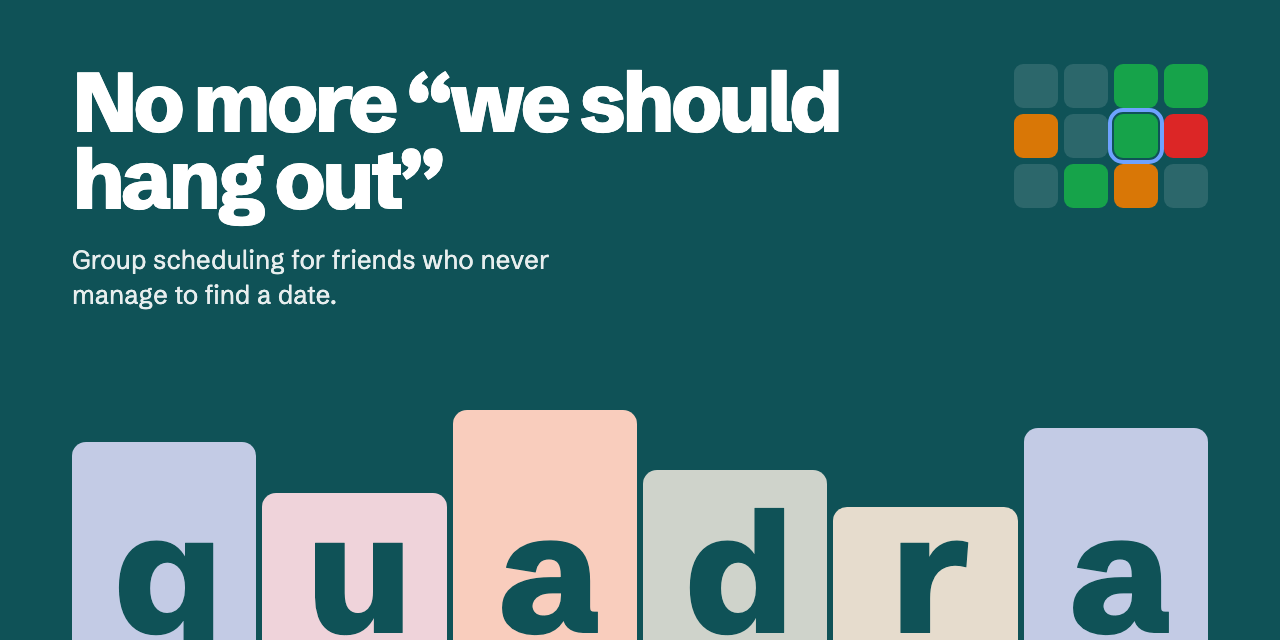
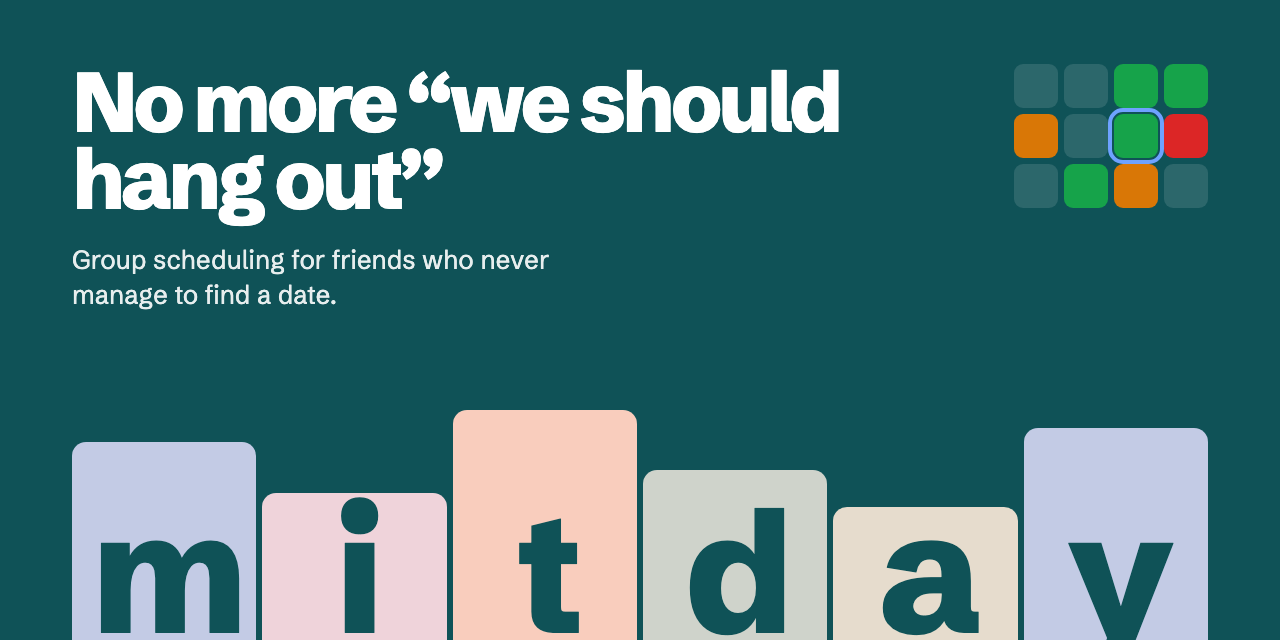
rename to Mitday

diff --git a/src/lib/email.ts b/src/lib/email.ts
@@ -18,17 +18,18 @@ export type OutgoingEmail = {
 
 /** Emails captured in dev/test when no Resend key is configured. */
 const globalOutbox = globalThis as unknown as {
-  __quadraOutbox?: { to: string; subject: string; text: string }[];
+  __mitdayOutbox?: { to: string; subject: string; text: string }[];
 };
 
 export function devOutbox() {
-  globalOutbox.__quadraOutbox ??= [];
-  return globalOutbox.__quadraOutbox;
+  globalOutbox.__mitdayOutbox ??= [];
+  return globalOutbox.__mitdayOutbox;
 }
 
 export async function sendEmail(email: OutgoingEmail): Promise<void> {
-  const key = process.env.AUTH_RESEND_KEY;
-  const from = process.env.EMAIL_FROM ?? "Quadra <no-reply@example.com>";
+  // AUTH_RESEND_KEY, or RESEND_API_KEY as set by the Vercel Marketplace Resend integration.
+  const key = process.env.AUTH_RESEND_KEY ?? process.env.RESEND_API_KEY;
+  const from = process.env.EMAIL_FROM ?? "Mitday <no-reply@example.com>";
   if (!key) {
     const text = await render(email.react, { plainText: true });
     devOutbox().push({ to: email.to, subject: email.subject, text });

diff --git a/src/components/landing/block-mark.tsx b/src/components/landing/block-mark.tsx
@@ -1,19 +1,19 @@
 import { cn } from "@/lib/utils";
 
 const BLOCKS = [
-  { letter: "q", h: "86%", bg: "bg-field-blue" },
-  { letter: "u", h: "64%", bg: "bg-field-pink" },
-  { letter: "a", h: "100%", bg: "bg-field-peach" },
+  { letter: "m", h: "86%", bg: "bg-field-blue" },
+  { letter: "i", h: "64%", bg: "bg-field-pink" },
+  { letter: "t", h: "100%", bg: "bg-field-peach" },
   { letter: "d", h: "74%", bg: "bg-field-sage" },
-  { letter: "r", h: "58%", bg: "bg-field-sand" },
-  { letter: "a", h: "92%", bg: "bg-field-blue" },
+  { letter: "a", h: "58%", bg: "bg-field-sand" },
+  { letter: "y", h: "92%", bg: "bg-field-blue" },
 ];
 
 /** The name built from calendar cells of different heights. */
 export function BlockMark({ className }: { className?: string }) {
   return (
     <div className={cn("h-[22svh] lg:h-[34svh]", className)}>
-      <span className="sr-only">Quadra</span>
+      <span className="sr-only">Mitday</span>
       <div aria-hidden="true" className="flex h-full items-end gap-1">
         {BLOCKS.map((b, i) => (
           <span

diff --git a/src/lib/rate-limit.ts b/src/lib/rate-limit.ts
@@ -14,24 +14,24 @@ const limits: Record<
 };
 
 const g = globalThis as unknown as {
-  __quadraLimiters?: Map<Bucket, Ratelimit>;
+  __mitdayLimiters?: Map<Bucket, Ratelimit>;
 };
 
 function limiter(bucket: Bucket): Ratelimit | null {
   const url = process.env.UPSTASH_REDIS_REST_URL;
   const token = process.env.UPSTASH_REDIS_REST_TOKEN;
   if (!url || !token) return null;
-  g.__quadraLimiters ??= new Map();
-  let rl = g.__quadraLimiters.get(bucket);
+  g.__mitdayLimiters ??= new Map();
+  let rl = g.__mitdayLimiters.get(bucket);
   if (!rl) {
     const { tokens, window } = limits[bucket];
     rl = new Ratelimit({
       redis: new Redis({ url, token }),
       limiter: Ratelimit.slidingWindow(tokens, window),
-      prefix: `quadra:rl:${bucket}`,
+      prefix: `mitday:rl:${bucket}`,
       analytics: false,
     });
-    g.__quadraLimiters.set(bucket, rl);
+    g.__mitdayLimiters.set(bucket, rl);
   }
   return rl;
 }

diff --git a/src/app/[locale]/p/[slug]/opengraph-image.tsx b/src/app/[locale]/p/[slug]/opengraph-image.tsx
@@ -3,7 +3,7 @@ import { getPlanBySlug } from "@/server/plans";
 
 export const size = { width: 1200, height: 630 };
 export const contentType = "image/png";
-export const alt = "Quadra";
+export const alt = "Mitday";
 
 /** Preview card for WhatsApp & co: the plan's title on the 2×2 mark. */
 export default async function OgImage({
@@ -13,7 +13,7 @@ export default async function OgImage({
 }) {
   const { slug } = await params;
   const b = await getPlanBySlug(slug).catch(() => null);
-  const title = b?.plan.title ?? "Quadra";
+  const title = b?.plan.title ?? "Mitday";
   const cells = [
     true,
     false,
@@ -70,7 +70,7 @@ export default async function OgImage({
               borderRadius: 6,
             }}
           />
-          Quadra
+          Mitday
         </div>
         <div
           style={{

diff --git a/e2e/helpers.ts b/e2e/helpers.ts
@@ -3,10 +3,10 @@ import { expect, type Page } from "@playwright/test";
 export const uid = () => Math.random().toString(36).slice(2, 8);
 
 export async function testLogin(page: Page, name: string, locale = "es") {
-  const email = `${name.toLowerCase()}-${uid()}@test.quadra`;
+  const email = `${name.toLowerCase()}-${uid()}@test.mitday`;
   await page.goto(`/${locale}/login`);
   const form = page.getByTestId("test-login");
-  await form.getByPlaceholder("ana@test.quadra").fill(email);
+  await form.getByPlaceholder("ana@test.mitday").fill(email);
   await form.getByLabel("Name").fill(name);
   await form.getByRole("button", { name: "Test login" }).click();
   await expect(page).toHaveURL(new RegExp(`/${locale}/dashboard`));

diff --git a/src/components/app/site-header.tsx b/src/components/app/site-header.tsx
@@ -2,7 +2,7 @@ import { getTranslations } from "next-intl/server";
 import { Suspense } from "react";
 import { Link } from "@/i18n/navigation";
 import { currentUser } from "@/server/session";
-import { QuadraMark } from "./logo";
+import { MitdayMark } from "./logo";
 import { UserMenu } from "./user-menu";
 
 async function HeaderUser() {
@@ -42,8 +42,8 @@ export async function SiteHeader() {
         href="/"
         className="flex items-center gap-2 text-[15px] font-semibold tracking-tight"
       >
-        <QuadraMark />
-        Quadra
+        <MitdayMark />
+        Mitday
       </Link>
       <Suspense fallback={<div className="h-9 w-20" />}>
         <HeaderUser />

diff --git a/src/lib/ics.ts b/src/lib/ics.ts
@@ -26,7 +26,7 @@ export function eventForCell(
   const parsed = parseCell(cell, plan.granularity);
   if (!parsed) return null;
   const base = {
-    uid: `${plan.id}@quadra`,
+    uid: `${plan.id}@mitday`,
     description: plan.description ?? undefined,
     url,
   };
@@ -99,7 +99,7 @@ export function buildIcs(event: CalendarEvent, now: Date = new Date()): string {
   const lines = [
     "BEGIN:VCALENDAR",
     "VERSION:2.0",
-    "PRODID:-//Quadra//Quadra//EN",
+    "PRODID:-//Mitday//Mitday//EN",
     "CALSCALE:GREGORIAN",
     "METHOD:PUBLISH",
     "BEGIN:VEVENT",

diff --git a/src/components/auth/login-forms.tsx b/src/components/auth/login-forms.tsx
@@ -90,7 +90,7 @@ export function TestLoginForm({ callbackUrl }: { callbackUrl: string }) {
     >
       <input type="hidden" name="callbackUrl" value={callbackUrl} />
       <Label htmlFor="test-email">Test login</Label>
-      <Input id="test-email" name="email" placeholder="ana@test.quadra" />
+      <Input id="test-email" name="email" placeholder="ana@test.mitday" />
       <Input name="name" placeholder="Ana" aria-label="Name" />
       <Submit variant="secondary">Test login</Submit>
     </form>

diff --git a/src/db/index.ts b/src/db/index.ts
@@ -30,12 +30,12 @@ function createDb(): Db {
   });
 }
 
-const globalForDb = globalThis as unknown as { __quadraDb?: Db };
+const globalForDb = globalThis as unknown as { __mitdayDb?: Db };
 
 /** Lazily created so importing this module never needs DATABASE_URL. */
 export function getDb(): Db {
-  globalForDb.__quadraDb ??= createDb();
-  return globalForDb.__quadraDb;
+  globalForDb.__mitdayDb ??= createDb();
+  return globalForDb.__mitdayDb;
 }
 
 export const db = new Proxy({} as Db, {

diff --git a/src/auth.ts b/src/auth.ts
@@ -65,7 +65,7 @@ if (testLoginEnabled()) {
       async authorize(credentials) {
         if (!testLoginEnabled()) return null;
         const email = String(credentials?.email ?? "").toLowerCase();
-        if (!email.endsWith("@test.quadra")) return null;
+        if (!email.endsWith("@test.mitday")) return null;
         const name = String(credentials?.name ?? email.split("@")[0]);
         const existing = await db.query.users.findFirst({
           where: eq(users.email, email),

diff --git a/src/emails/magic-link.tsx b/src/emails/magic-link.tsx
@@ -27,8 +27,8 @@ MagicLinkEmail.PreviewProps = {
   lang: "es",
   url: "https://example.com",
   strings: {
-    preview: "Tu enlace para entrar en Quadra",
-    heading: "Pulsa el botón para entrar en Quadra.",
+    preview: "Tu enlace para entrar en Mitday",
+    heading: "Pulsa el botón para entrar en Mitday.",
     button: "Entrar",
     ignore: "Si no lo has pedido tú, ignora este correo.",
   },

diff --git a/src/app/[locale]/layout.tsx b/src/app/[locale]/layout.tsx
@@ -32,7 +32,7 @@ export async function generateMetadata({
   });
   return {
     metadataBase: new URL(appUrl()),
-    title: { default: t("title"), template: "%s · Quadra" },
+    title: { default: t("title"), template: "%s · Mitday" },
     description: t("description"),
     alternates: {
       languages: Object.fromEntries(routing.locales.map((l) => [l, `/${l}`])),
